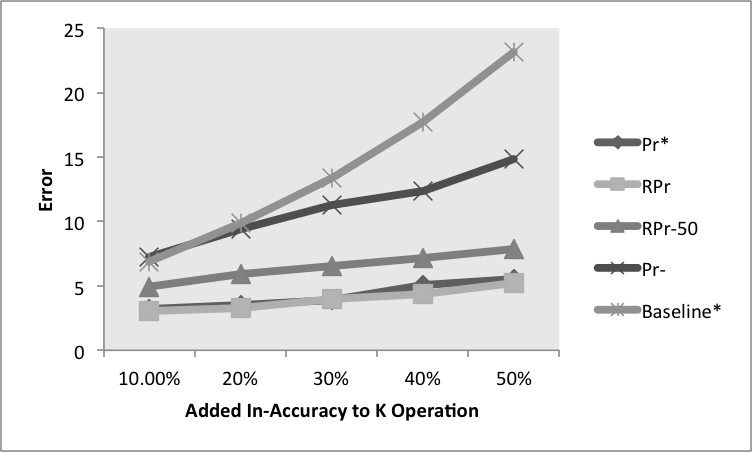
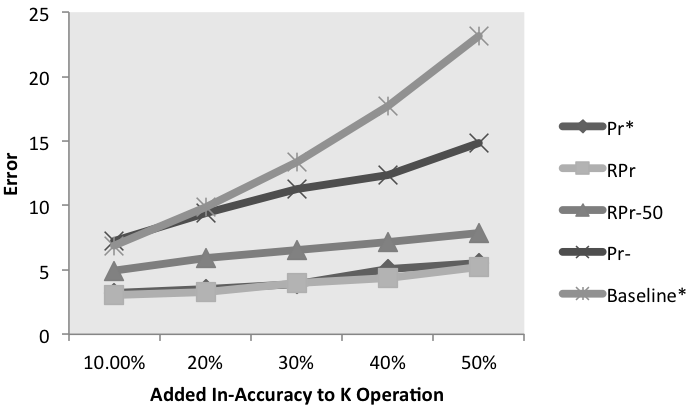
Cropped images and fixed a bibtex bug

diff --git a/introduction.tex b/introduction.tex
@@ -16,17 +16,17 @@ We call these sequences of data cleaning operations \emph{pipelines}.
 
 The key difficulty in reasoning about the \emph{pipelines} is that all of these operations are in effect heuristics with some precision and recall characteristics.
 Pipelining heuristic operations is by nature an uncertain process; drawing a stark contrast to the traditional query optimization setting where correctness can be formalized in terms of confluence or serializability. 
-We found that pipelines were often very brittle and small changes in the order-of-operations could have very significant impact on results.
+We found that pipelines were often very brittle and small changes in the order-of-operations could have very a significant impact on results.
 To get reliable results we had to specify these operations and their ordering very precisely, which is in opposition to the goal of building a declarative data cleaning interface.
 
 In this paper, we aim to study the robustness of these pipelines and techniques which can allow for more reliable execution.
-We focus our study on an important subclass of data cleaning pipeline problems: entity resolution (ER) \cite{DBLP:journals/pvldb/KopckeTR10, conf/dmkd/MongeE97, conf/sigmod/WhangMKTG09, conf/acl/FinkelM08, conf/sigmod/WangLF12, Fellegi1969, conf/sigmod/ArasuGK10, DBLP:journals/tkde/ElmagarmidIV07, journals/tkde/Christen11}. 
+We focus our study on an important subclass of data cleaning pipeline problems: entity resolution (ER) \cite{DBLP:journals/pvldb/KopckeTR10, conf/dmkd/MongeE97, conf/sigmod/WhangMKTG09, conf/acl/FinkelM08, conf/sigmod/WangLF12, Fellegi1969, conf/sigmod/ArasuGK10, DBLP:journals/tkde/ElmagarmidIV07, journals/tkde/Christen11, getoor2005link}. 
 In these problems, for every record we want to find a single canonical mapping between the records and the real world.
 Formally, every record in the clean relation $R_c$ there is a one-to-one mapping with some real world entity.
-A popular class of ER algorithms build a graph of linked candidate records (\emph{entity graph}) \cite{wang1999sample} and apply a graph clustering algorithm to resolve groups of records that refer to the same entity.
+%In a traditional ER workflow, pairs of records are heuristically matched with some measure of similarity (eg. Jaccard similarity for string-valued attributes).
+A popular class of ER algorithms builds a graph of linked candidate records (\emph{entity graph}) \cite{bhattacharya2005relational, wang1999sample} and applies a graph clustering algorithm to resolve groups of records that refer to the same entity.
 
-In a traditional ER workflow, all pairs of records are heuristically matched with some measure of similarity (eg. Jaccard similarity for string-valued attributes).
-When applying heuristics to construct an entity graph, there are two types of errors: false-positives and false-negatives. 
+When applying heuristics to construct the entity graph, there are two types of errors: false-positives and false-negatives. 
 In the false-positive case, an edge linking two records is spuriously added. 
 In the false-negative case, a necessary edge is missing. 
 For scalability, these graphs are often made very sparse.
@@ -36,20 +36,21 @@ This makes the graphs very sparse and also allows flexibility to apply coarser-g
 
 With this challenge in mind, there are two key recent results that present an opportunity to change the way in which we approach ER: (1) the combination of sampling and data cleaning \cite{wang1999sample}, and (2) improved parallel graph segmentation algorithms [cite]. 
 In SampleClean, we showed that applying data cleaning to a sample of data was sufficient to answer many non-selective aggregate queries with high accuracy. We have also been working on parallel correlation clustering graph algorithms which can cluster graphs with millions of vertices in seconds [cite].
-With the conjunction of these two techniques, we can support much larger and denser entity graphs.
+With the conjunction of these two techniques, we can support much larger and denser entity graphs; begging the question of how this may improve ER pipelines.
 
-We first take a broader view of entity resolution.
+Firstly, it allows us to first take a broader view of entity resolution.
 ER in its typical formulation requires merging duplicate records that map to the same entity; which in reality is only the last step of a typical data cleaning workflow.
 To this task effective, we often have to start by fixing the attributes of the record so they accurately reflect the entity, and accurately filling in missing attributes.
 Linking back to our discussions of \emph{pipelines}, each ER task requires a sequence of duplication and attribute correction operations.
-Every record then has a history of changes as it progresses through the pipeline and contribution (1) of this paper is exploring the benefits of exposing this history to data cleaning operators.
+Every record then has a history of changes as it progresses through the pipeline and one contribution of this paper is exploring the benefits of exposing this history to data cleaning operators.
 For example, perhaps an earlier version of a tuple is easier to link to a later version of another.
 
-Contribution (2) addresses the problem of the heuristic nature of the pipeline.
+By increasing the size of the graph, with heuristic opeartors, this approach could lead to many new false-positive edges. 
+We address this problem through randomization and consensus between random runs.
 Instead of picking a set optimal order before execution, we execute random permutations of the pipeline.
 We use these random executions to find linked tuples that stay linked across different permutations of the pipeline.
 However, one challenge is that all of these random samples have to be executed completely before results can be presented to users.
-Contribution (3) of this works is a streaming variant of the correlation clustering algorithm that allows users to see the results update as more random pipelines are executed.
+Our final contribution of this works is a streaming variant of the correlation clustering algorithm that allows users to see the results update as more random pipelines are executed.
 
 We call this entire approach ESP (Ensemble of Sample Pipelines), and we evaluate this on real and synthetic datasets.
 We also implement this framework in a distributed setting with Spark 1.1 and GraphX.
